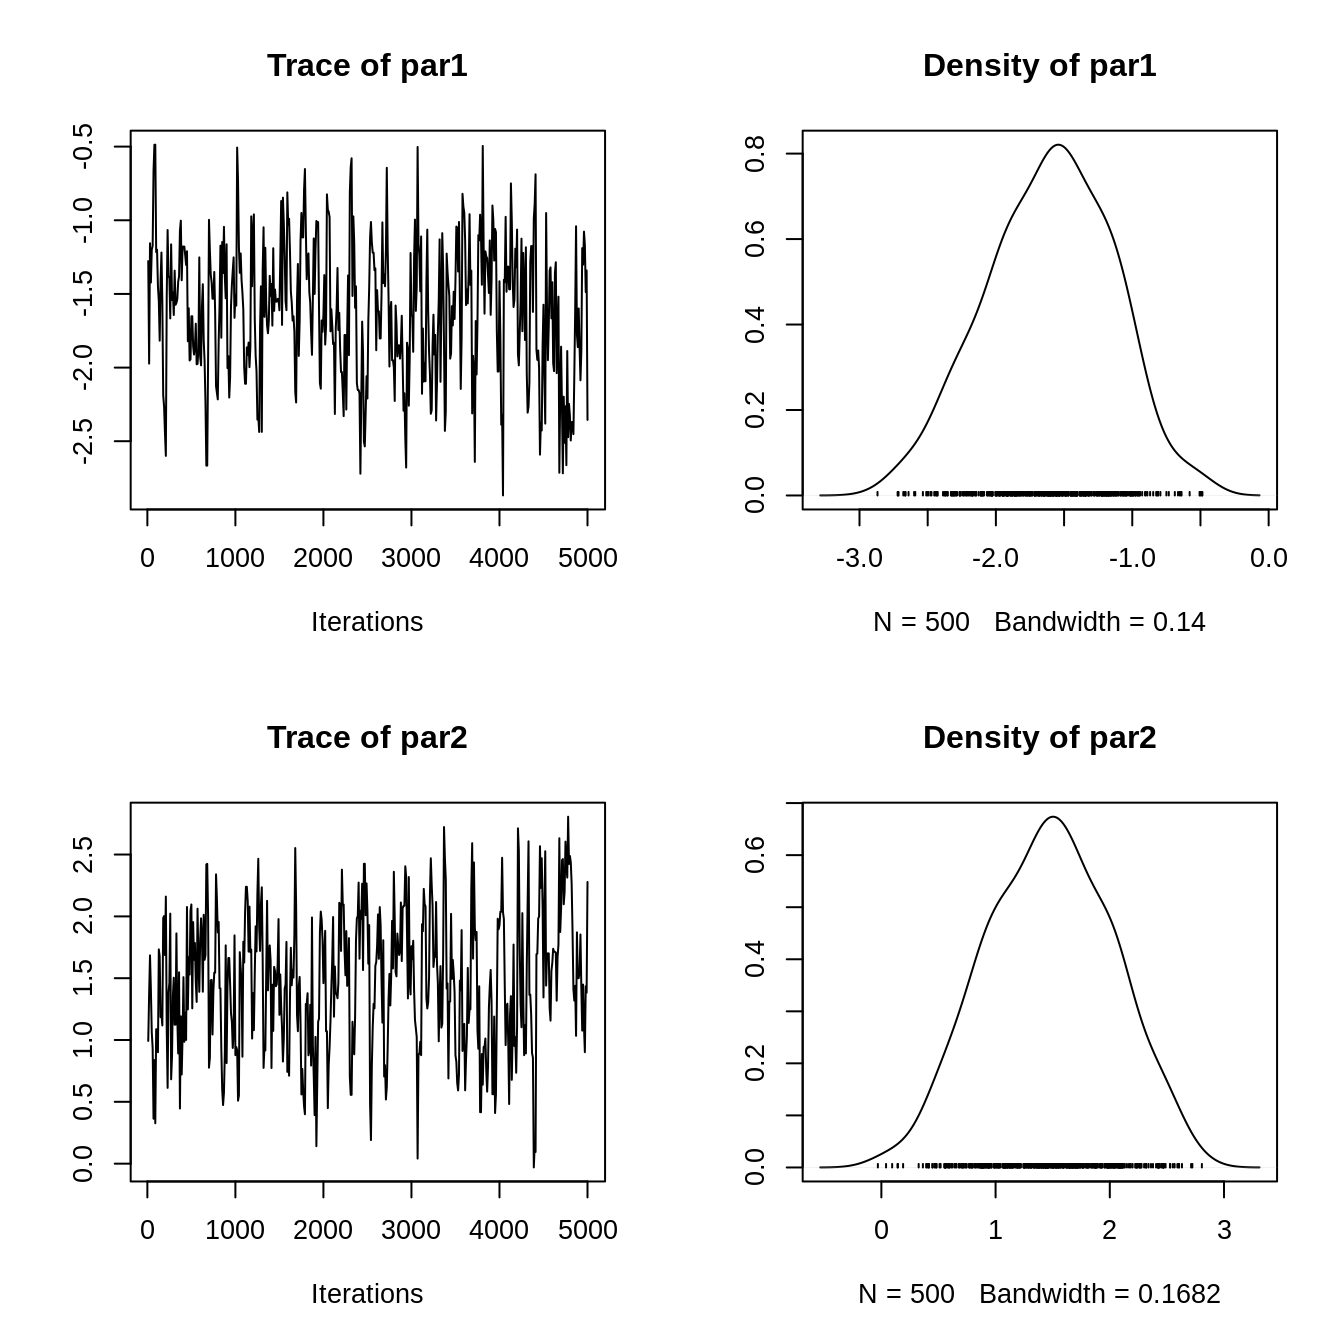
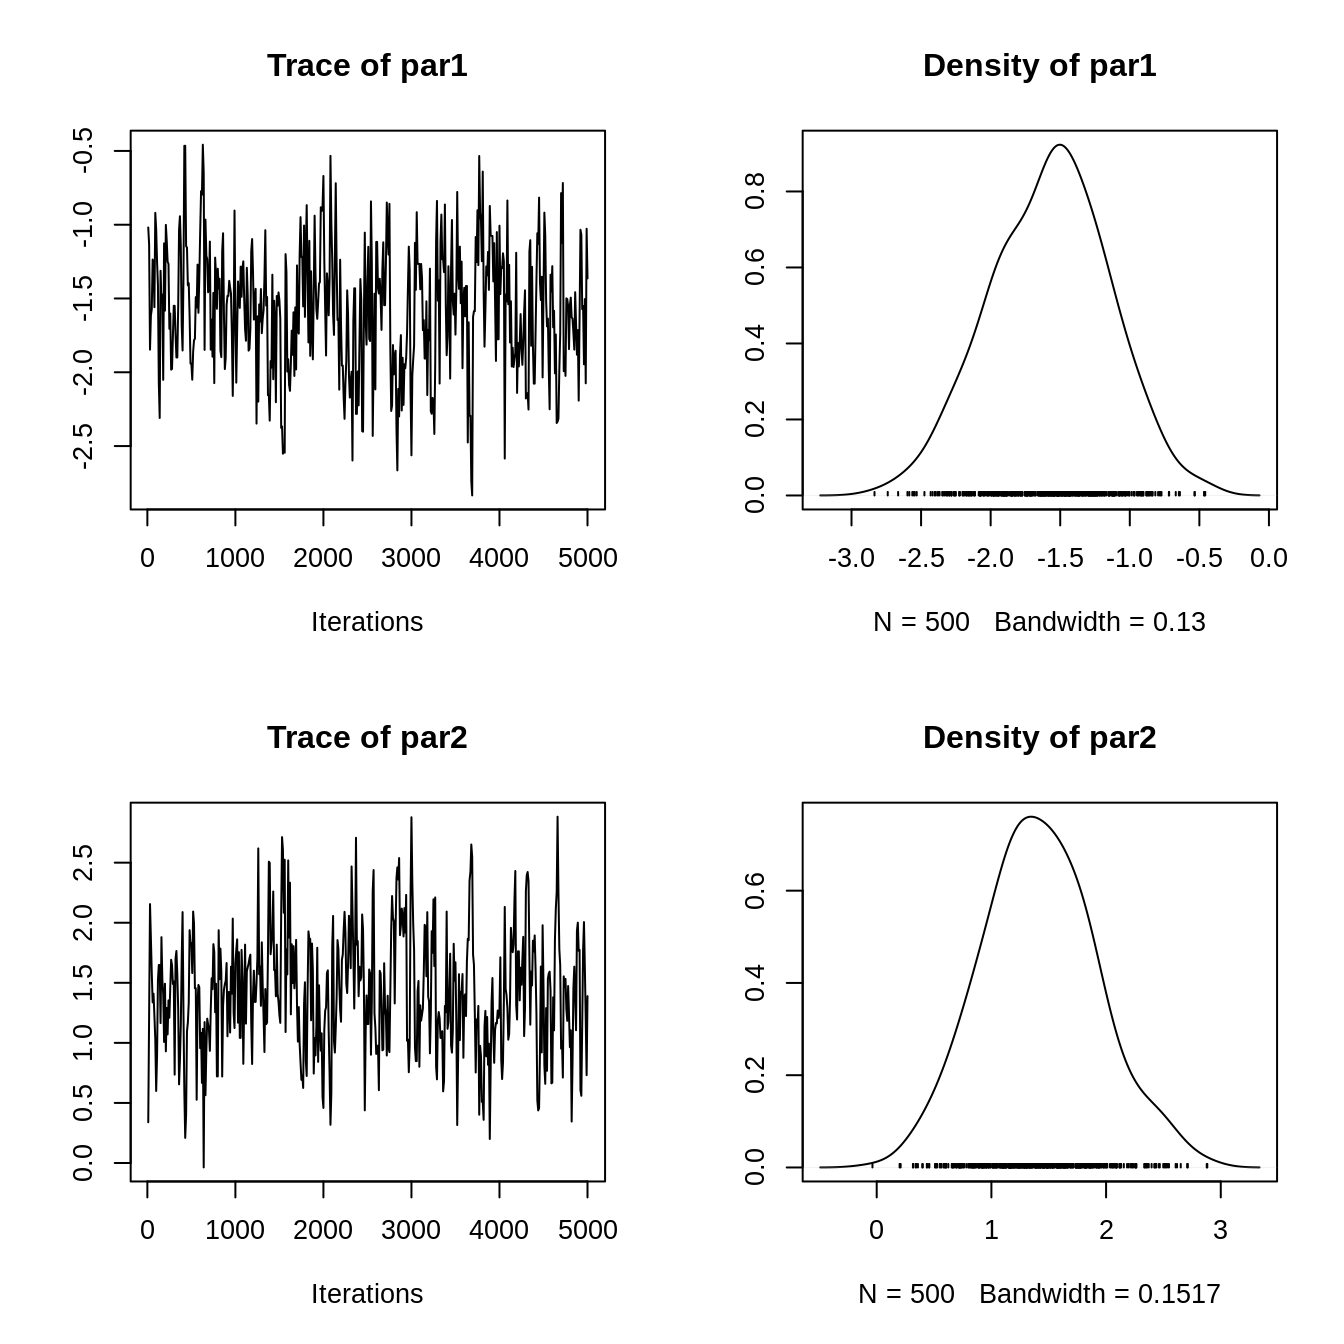
Built site for ergmito: 0.2.0@19d8811

diff --git a/articles/extending-ergmito.html b/articles/extending-ergmito.html
@@ -98,7 +98,7 @@
       <h1>Extending ergmito</h1>
                         <h4 class="author">George G. Vega Yon</h4>
             
-            <h4 class="date">2020-01-29</h4>
+            <h4 class="date">2020-02-03</h4>
       
       <small class="dont-index">Source: <a href="https://github.com/muriteams/ergmito/blob/master/vignettes/extending-ergmito.Rmd"><code>vignettes/extending-ergmito.Rmd</code></a></small>
       <div class="hidden name"><code>extending-ergmito.Rmd</code></div>
@@ -129,8 +129,8 @@
 <a class="sourceLine" id="cb1-19" data-line-number="19"><span class="co">#&gt;         return(-.Machine$double.xmax * 1e-100)</span></a>
 <a class="sourceLine" id="cb1-20" data-line-number="20"><span class="co">#&gt;     else return(ans)</span></a>
 <a class="sourceLine" id="cb1-21" data-line-number="21"><span class="co">#&gt; }</span></a>
-<a class="sourceLine" id="cb1-22" data-line-number="22"><span class="co">#&gt; &lt;bytecode: 0x8d09278&gt;</span></a>
-<a class="sourceLine" id="cb1-23" data-line-number="23"><span class="co">#&gt; &lt;environment: 0x8d0b550&gt;</span></a></code></pre></div>
+<a class="sourceLine" id="cb1-22" data-line-number="22"><span class="co">#&gt; &lt;bytecode: 0x7ff1c60&gt;</span></a>
+<a class="sourceLine" id="cb1-23" data-line-number="23"><span class="co">#&gt; &lt;environment: 0x7ff3c98&gt;</span></a></code></pre></div>
 <p>Besides of the log-likelihood function and the gradient function, <code>ergmito_formulae</code> also returns We can take a look at each component from our previous object:</p>
 <div class="sourceCode" id="cb2"><pre class="sourceCode r"><code class="sourceCode r"><a class="sourceLine" id="cb2-1" data-line-number="1"><span class="co"># The vectors of weights</span></a>
 <a class="sourceLine" id="cb2-2" data-line-number="2"><span class="kw"><a href="https://rdrr.io/r/utils/str.html">str</a></span>(model_object<span class="op">$</span>stats.weights)</a>
@@ -223,14 +223,14 @@
 <a class="sourceLine" id="cb6-9" data-line-number="9"><span class="co">#&gt;    plus standard error of the mean:</span></a>
 <a class="sourceLine" id="cb6-10" data-line-number="10"><span class="co">#&gt; </span></a>
 <a class="sourceLine" id="cb6-11" data-line-number="11"><span class="co">#&gt;        Mean     SD Naive SE Time-series SE</span></a>
-<a class="sourceLine" id="cb6-12" data-line-number="12"><span class="co">#&gt; par1 -1.608 0.4576  0.02046        0.04100</span></a>
-<a class="sourceLine" id="cb6-13" data-line-number="13"><span class="co">#&gt; par2  1.469 0.5499  0.02459        0.05579</span></a>
+<a class="sourceLine" id="cb6-12" data-line-number="12"><span class="co">#&gt; par1 -1.577 0.4250  0.01901        0.03246</span></a>
+<a class="sourceLine" id="cb6-13" data-line-number="13"><span class="co">#&gt; par2  1.420 0.5029  0.02249        0.04204</span></a>
 <a class="sourceLine" id="cb6-14" data-line-number="14"><span class="co">#&gt; </span></a>
 <a class="sourceLine" id="cb6-15" data-line-number="15"><span class="co">#&gt; 2. Quantiles for each variable:</span></a>
 <a class="sourceLine" id="cb6-16" data-line-number="16"><span class="co">#&gt; </span></a>
 <a class="sourceLine" id="cb6-17" data-line-number="17"><span class="co">#&gt;         2.5%    25%    50%    75%   97.5%</span></a>
-<a class="sourceLine" id="cb6-18" data-line-number="18"><span class="co">#&gt; par1 -2.5069 -1.920 -1.583 -1.257 -0.7707</span></a>
-<a class="sourceLine" id="cb6-19" data-line-number="19"><span class="co">#&gt; par2  0.4305  1.076  1.460  1.874  2.4722</span></a></code></pre></div>
+<a class="sourceLine" id="cb6-18" data-line-number="18"><span class="co">#&gt; par1 -2.4009 -1.885 -1.550 -1.280 -0.7909</span></a>
+<a class="sourceLine" id="cb6-19" data-line-number="19"><span class="co">#&gt; par2  0.4576  1.096  1.409  1.761  2.4841</span></a></code></pre></div>
 <p>Finally, we can compare this result with what we obtain from the <code>ergmito</code> function</p>
 <div class="sourceCode" id="cb7"><pre class="sourceCode r"><code class="sourceCode r"><a class="sourceLine" id="cb7-1" data-line-number="1"><span class="kw"><a href="https://rdrr.io/r/base/summary.html">summary</a></span>(<span class="kw"><a href="../reference/ergmito.html">ergmito</a></span>(fivenets <span class="op">~</span><span class="st"> </span>edges <span class="op">+</span><span class="st"> </span><span class="kw">nodematch</span>(<span class="st">"female"</span>)))</a>
 <a class="sourceLine" id="cb7-2" data-line-number="2"><span class="co">#&gt; </span></a>

diff --git a/reference/fivenets.html b/reference/fivenets.html
@@ -159,16 +159,12 @@ statistics that generate this data are <code>edges</code> and  <code>nodematch("
     <h2 class="hasAnchor" id="format"><a class="anchor" href="#format"></a>Format</h2>
 
     <p>An object of class <code>list</code> of length 5.</p>
-    <h2 class="hasAnchor" id="details"><a class="anchor" href="#details"></a>Details</h2>
-
-    <p>The original sampler can be found in <a href='fivesamplers.html'>fivesamplers</a>.</p>
 
   </div>
   <div class="col-md-3 hidden-xs hidden-sm" id="sidebar">
     <h2>Contents</h2>
     <ul class="nav nav-pills nav-stacked">
       <li><a href="#format">Format</a></li>
-      <li><a href="#details">Details</a></li>
     </ul>
 
   </div>

diff --git a/index.html b/index.html
@@ -336,6 +336,8 @@
     <div class="links">
 <h2>Links</h2>
 <ul class="list-unstyled">
+<li>Download from CRAN at <br><a href="https://cloud.r-project.org/package=ergmito">https://cloud.r-project.org/package=ergmito</a>
+</li>
 <li>Browse source code at <br><a href="https://github.com/muriteams/ergmito">https://github.com/muriteams/ergmito</a>
 </li>
 <li>Report a bug at <br><a href="https://github.com/muriteams/ergmito/issues">https://github.com/muriteams/ergmito/issues</a>

diff --git a/articles/ergm-equations.html b/articles/ergm-equations.html
@@ -98,7 +98,7 @@
       <h1>ERGM equations</h1>
                         <h4 class="author">George G Vega Yon</h4>
             
-            <h4 class="date">2020-01-29</h4>
+            <h4 class="date">2020-02-03</h4>
       
       <small class="dont-index">Source: <a href="https://github.com/muriteams/ergmito/blob/master/vignettes/ergm-equations.Rmd"><code>vignettes/ergm-equations.Rmd</code></a></small>
       <div class="hidden name"><code>ergm-equations.Rmd</code></div>

diff --git a/reference/index.html b/reference/index.html
@@ -224,12 +224,6 @@
       </tr><tr>
         
         <td>
-          <p><code><a href="fivesamplers.html">fivesamplers</a></code> </p>
-        </td>
-        <td><p>Five ERGMito samplers</p></td>
-      </tr><tr>
-        
-        <td>
           <p><code><a href="geodesic.html">geodesic()</a></code> <code><a href="geodesic.html">geodesita()</a></code> </p>
         </td>
         <td><p>Geodesic distance matrix (all pairs)</p></td>

diff --git a/reference/ergmito.html b/reference/ergmito.html
@@ -355,7 +355,7 @@ Anecdotally, <code>optim</code> reaches the max in the first try.</p>
 #&gt; ==========================
 #&gt; 
 #&gt; Formula:   net ~ edges + mutual
-#&gt; &lt;environment: 0x285f4f40&gt;
+#&gt; &lt;environment: 0x28139010&gt;
 #&gt; 
 #&gt; Iterations:  2 out of 20 
 #&gt; 
